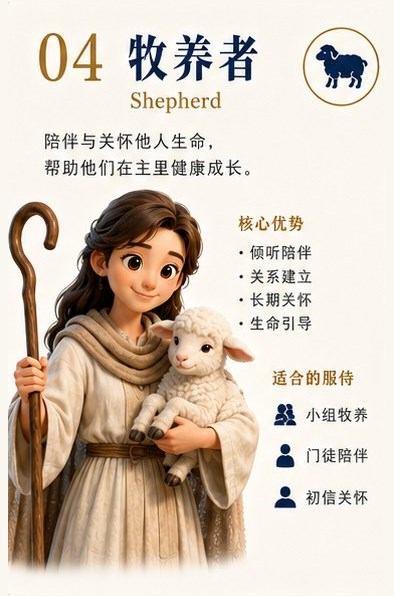
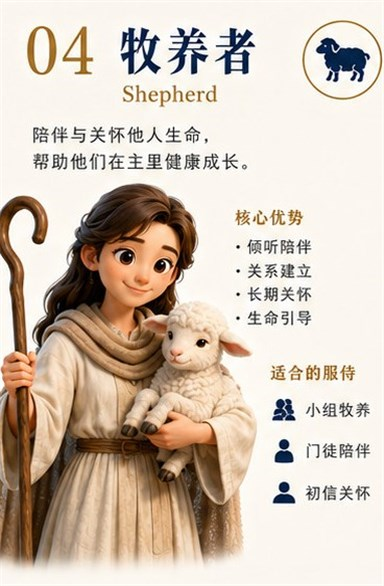
archetypes 卡图重裁：避开海报边框、统一 384x586（与 App 同步）

diff --git a/index.html b/index.html
@@ -83,9 +83,9 @@
 })();
 </script>
 <script>(function(){var l=document.createElement("link");l.rel="preload";l.as="image";l.href="assets/img/hero-"+(document.documentElement.dataset.theme==="night"?"night":"day")+".webp";document.head.appendChild(l);})();</script>
-<script src="assets/js/supabase-config.js?v=202608281222"></script>
+<script src="assets/js/supabase-config.js?v=202608281229"></script>
 <link rel="preconnect" href="https://fonts.googleapis.com"><link rel="preconnect" href="https://fonts.gstatic.com" crossorigin><link href="https://fonts.googleapis.com/css2?family=Noto+Serif+SC:wght@600;700;900&display=swap" rel="stylesheet">
-<link rel="stylesheet" href="assets/css/main.css?v=202608281222">
+<link rel="stylesheet" href="assets/css/main.css?v=202608281229">
 </head>
 <body>
 <a class="skip-link" href="#main" data-i18n="actions.skip">跳到主要内容</a>
@@ -1174,6 +1174,6 @@
 </div>
 
 <div class="toast" id="toast" role="status" aria-live="polite"></div>
-<script src="assets/js/main.js?v=202608281222"></script>
+<script src="assets/js/main.js?v=202608281229"></script>
 </body>
 </html>

diff --git a/giving.html b/giving.html
@@ -6,9 +6,9 @@
 <meta name="robots" content="noindex,nofollow">
 <title>与我们同工 | AMAS</title>
 <link rel="icon" href="assets/img/favicon.png">
-<script src="assets/js/supabase-config.js?v=202608281222"></script>
+<script src="assets/js/supabase-config.js?v=202608281229"></script>
 <link rel="preconnect" href="https://fonts.googleapis.com"><link rel="preconnect" href="https://fonts.gstatic.com" crossorigin><link href="https://fonts.googleapis.com/css2?family=Noto+Serif+SC:wght@600;700;900&display=swap" rel="stylesheet">
-<link rel="stylesheet" href="assets/css/main.css?v=202608281222">
+<link rel="stylesheet" href="assets/css/main.css?v=202608281229">
 <style>
   body{background:var(--bg,#f7f1e6)}
   .gv-wrap{max-width:760px;margin:0 auto;padding:34px 18px 70px}

diff --git a/admin.html b/admin.html
@@ -6,7 +6,7 @@
 <meta name="robots" content="noindex,nofollow">
 <title>AMAS 招生后台</title>
 <link rel="icon" href="assets/img/favicon.png">
-<script src="assets/js/supabase-config.js?v=202608281222"></script>
+<script src="assets/js/supabase-config.js?v=202608281229"></script>
 <script src="https://cdn.jsdelivr.net/npm/@supabase/supabase-js@2/dist/umd/supabase.min.js"></script>
 <style>
 *{box-sizing:border-box}

diff --git a/login.html b/login.html
@@ -287,7 +287,7 @@ body::before{
 </div>
 <div class="toast" id="toast"></div>
 
-<script src="assets/js/supabase-config.js?v=202608281222"></script>
+<script src="assets/js/supabase-config.js?v=202608281229"></script>
 <script>
 const $ = (s)=>document.querySelector(s);
 const $$ = (s)=>[...document.querySelectorAll(s)];
